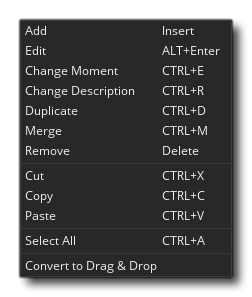
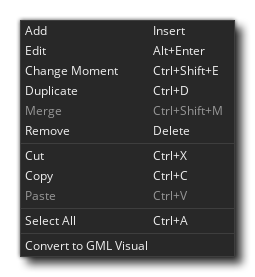
docs(general): The Timeline Editor page shows non-existent right-click option to change moment description https://github.com/YoYoGames/GameMaker-Bugs/issues/7226

Changed region(s): [[0.0556, 0.0578, 0.9444, 0.9531], [0.5833, 0.7798, 0.8333, 0.8375]]

diff --git a/Manual/contents/The_Asset_Editors/Timelines.htm b/Manual/contents/The_Asset_Editors/Timelines.htm
@@ -36,14 +36,12 @@
       <br />
     </p>
   </div>
-  <p><a class="dropspot" data-rhwidget="DropSpot" data-target="drop-down2" href="#">Moment Name</a></p>
+  <p><a class="dropspot" data-rhwidget="DropSpot" data-target="drop-down2" href="#">Description</a></p>
   <div class="droptext" data-targetname="drop-down2">
-    <p class="dropspot">To help you understand what your timeline is doing it is permitted that you give moments a name to identify them. This is simply a string and will not be used in the game code or anywhere else, as it&#39;s purely for organising and understanding what your timeline does. To add a name/description to your moment, you need to use the <span class="inline">/// @description</span> format on the first line of the code block, for example:
-      <br />
-    </p>
+    <p class="dropspot">To help you understand what your timeline is doing it is permitted that you give moments a description to identify them. This is simply a string and will not be used in the game code or anywhere else, as it&#39;s purely for organising and understanding what your timeline does. To add a description to your moment, you need to use the <span class="inline">/// @description</span> format on the first line of the code block, for example:</p>
     <p class="code">/// @description Hello World</p>
     <p class="dropspot">Which would look like this:</p>
-    <p class="dropspot"> <img src="../assets/Images/Asset_Editors/Editor_Timelines_Name.png" class="center" alt="Timeline Editor Name/Description" /> </p>
+    <p class="dropspot"><img alt="Timeline Editor Name/Description" class="center" src="../assets/Images/Asset_Editors/Editor_Timelines_Name.png" /></p>
   </div>
   <p> </p>
   <p>The timeline editor permits you to use <img alt="Space Icon" class="icon" height="20" src="../assets/Images/Icons/Icon_Shift.png" width="55" /> + <img alt="LMB Icon" class="icon" height="24" src="../assets/Images/Icons/Icon_LMB.png" width="21" /> to select all moments between the first click <img alt="LMB Icon" class="icon" height="24" src="../assets/Images/Icons/Icon_LMB.png" width="21" /> and the second click <img alt="LMB Icon" class="icon" height="24" src="../assets/Images/Icons/Icon_LMB.png" width="21" />, or you can use <img alt="Control Icon" class="icon" height="20" src="../assets/Images/Icons/Icon_Ctrl.png" width="55" /> / <img alt="CMD Icon" class="icon" height="20" src="../assets/Images/Icons/Icon_Cmd.png" width="55" /> + <img alt="LMB Icon" class="icon" height="24" src="../assets/Images/Icons/Icon_LMB.png" width="21" /> to click on single moments to select them independently. Timeline moments can be edited using the right mouse button <img alt="RMB Icon" class="icon" src="../assets/Images/Icons/Icon_RMB.png" /> menu on one of the selected elements:</p>
@@ -52,7 +50,6 @@
     <li><strong>Add</strong>: This option permits you to add a new moment to the timeline. It will be added directly after the last moment, so if the last moment in your timeline is 120, the next one you add will be 121. You can change the moment position by double clicking <img alt="LMB Icon" class="icon" height="24" src="../assets/Images/Icons/Icon_LMB.png" width="21" /> on the moment value in the editor or by right-clicking <img alt="RMB Icon" class="icon" src="../assets/Images/Icons/Icon_RMB.png" /> and choosing &quot;<em>Change</em>&quot;.</li>
     <li><strong>Edit</strong>: This opens the current timeline moment for editing.</li>
     <li><strong>Change Moment</strong>: Change the value for the selected timeline moment. This is the same as slow double clicking <img alt="LMB Icon" class="icon" height="24" src="../assets/Images/Icons/Icon_LMB.png" width="21" /> on the timeline value in the editor window.</li>
-    <li><strong>Change Description</strong>: Change the descriptive name for the selected timeline moment. This is the same as slow double clicking <img alt="LMB Icon" class="icon" height="24" src="../assets/Images/Icons/Icon_LMB.png" width="21" /> on the timeline description in the editor window.</li>
     <li><strong>Duplicate</strong>: This will duplicate all the selected timeline moments and add them consecutively to the end of the current timeline.</li>
     <li><strong>Merge</strong>: If you select two or more moments from a timeline you can choose to merge them. This will create a single timeline moment at the position of the first moment selected with all the code and actions together concurrently.</li>
     <li><strong>Remove</strong>: This will remove the selected moment (or moments) from the timeline.</li>
